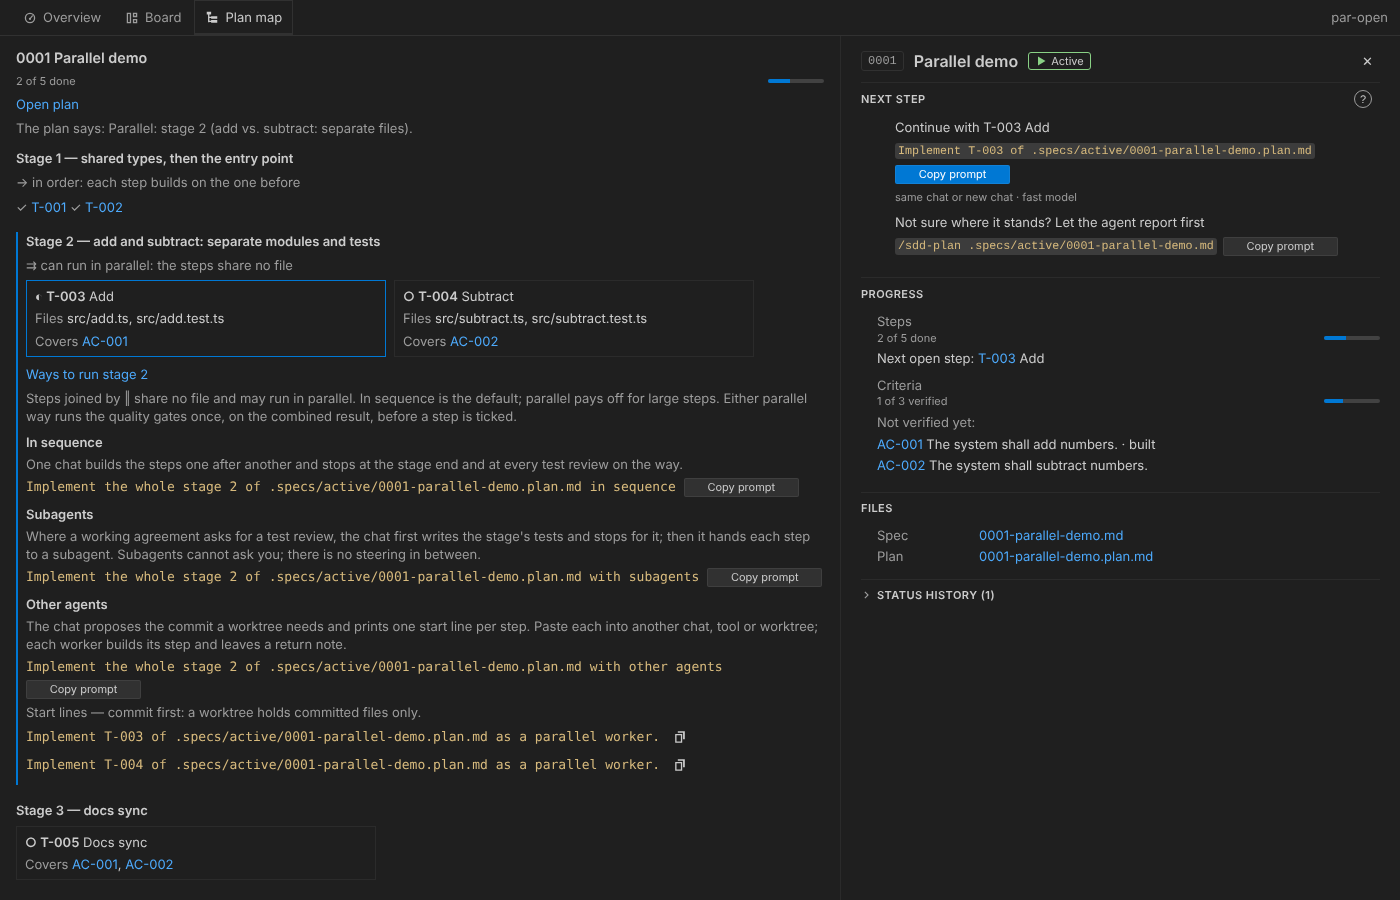
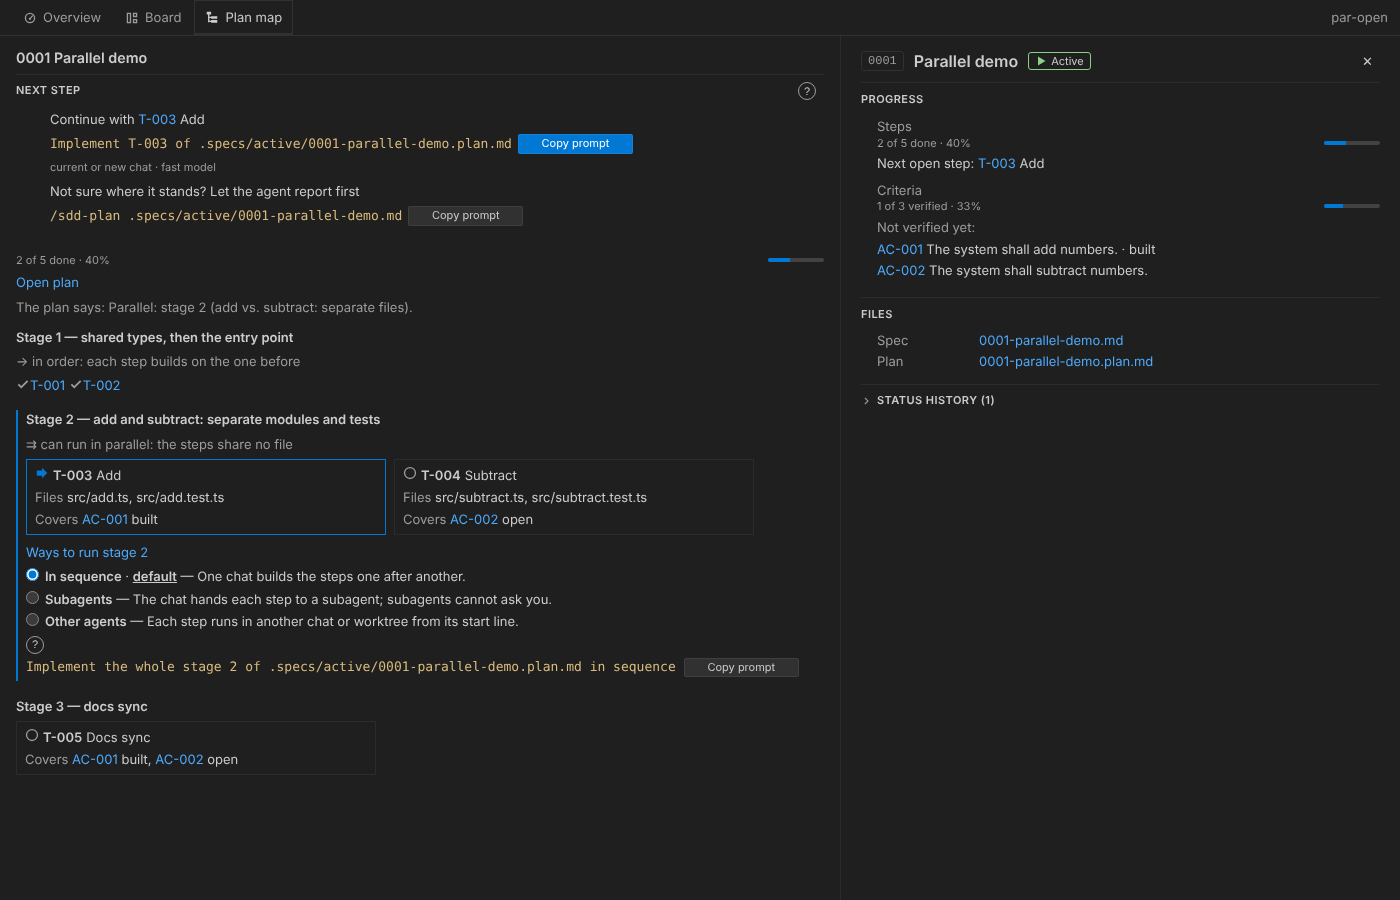
docs: README screenshots after round 3 (Now with five rows, ways as three choices) and their alt text
Claude-Session: https://claude.ai/code/session_01Gjx4ug55tnrs2YJYnrBwo6

diff --git a/src/adapters/node/docsScan.test.ts b/src/adapters/node/docsScan.test.ts
@@ -785,9 +785,9 @@ describe('product docs after 0024 (AC-015)', () => {
 
 describe('product docs after the final check of round 2 (0024 T-014 to T-022)', () => {
     const SHOTS = [
-        ['overview-dark', 'Overview in the dark theme: Now lists the specs in Review, the first row with the primary Copy prompt and its coach line, then Up next and the figures'],
+        ['overview-dark', 'Overview in the dark theme: Now lists five specs in Review and + 7 more, the first row with Copy prompt and its coach line, then Up next and the figures'],
         ['board-dark', 'Board in the dark theme: six columns, the Review column open with cards that show the next step and an icon Copy prompt'],
-        ['plan-map-dark', 'Plan map in the dark theme: a plan as stages, stage 2 can run in parallel with two step cards and the ways to run it, the side panel beside the map'],
+        ['plan-map-dark', 'Plan map in the dark theme: a plan as stages with the next step in its header, stage 2 can run in parallel with two step cards and the ways to run it as three choices, the side panel beside the map'],
         ['spec-detail-light', 'Board in the light theme with the detail of a spec in the side panel: Next step with Copy prompt, Plan and Progress'],
     ] as const;
 

diff --git a/README.md b/README.md
@@ -4,7 +4,7 @@ A VS Code panel for projects that use [FeatherSpec](https://github.com/GregorBis
 
 Studio reads your project and starts no agent; the work with your agent stays in your assistant's chat. The one exception to read-only is [Set up FeatherSpec](#set-up-featherspec), which you start and confirm yourself.
 
-![Overview in the dark theme: Now lists the specs in Review, the first row with the primary Copy prompt and its coach line, then Up next and the figures](media/screenshots/overview-dark.png)
+![Overview in the dark theme: Now lists five specs in Review and + 7 more, the first row with Copy prompt and its coach line, then Up next and the figures](media/screenshots/overview-dark.png)
 
 ## Feature tour
 
@@ -26,7 +26,7 @@ Every spec as a card in six columns: Backlog, Ready, Active, Review, Done and Bl
 
 ### Plan map
 
-![Plan map in the dark theme: a plan as stages, stage 2 can run in parallel with two step cards and the ways to run it, the side panel beside the map](media/screenshots/plan-map-dark.png)
+![Plan map in the dark theme: a plan as stages with the next step in its header, stage 2 can run in parallel with two step cards and the ways to run it as three choices, the side panel beside the map](media/screenshots/plan-map-dark.png)
 
 The third tab shows one spec's plan as stages. Select a spec that has a plan (in the tab's own list, the Specs view, the Overview or the Board) and each stage is a row: `Stage 2 — add and subtract`, with a line that says whether its steps run in order or can run in parallel because they share no file. Steps are cards with their files and the acceptance criteria they cover, side by side where they can run together; open a card for what to do and how it is verified. A finished stage folds to the step IDs. The side panel stands beside the map from 900 px; below that the map shows alone.
 
